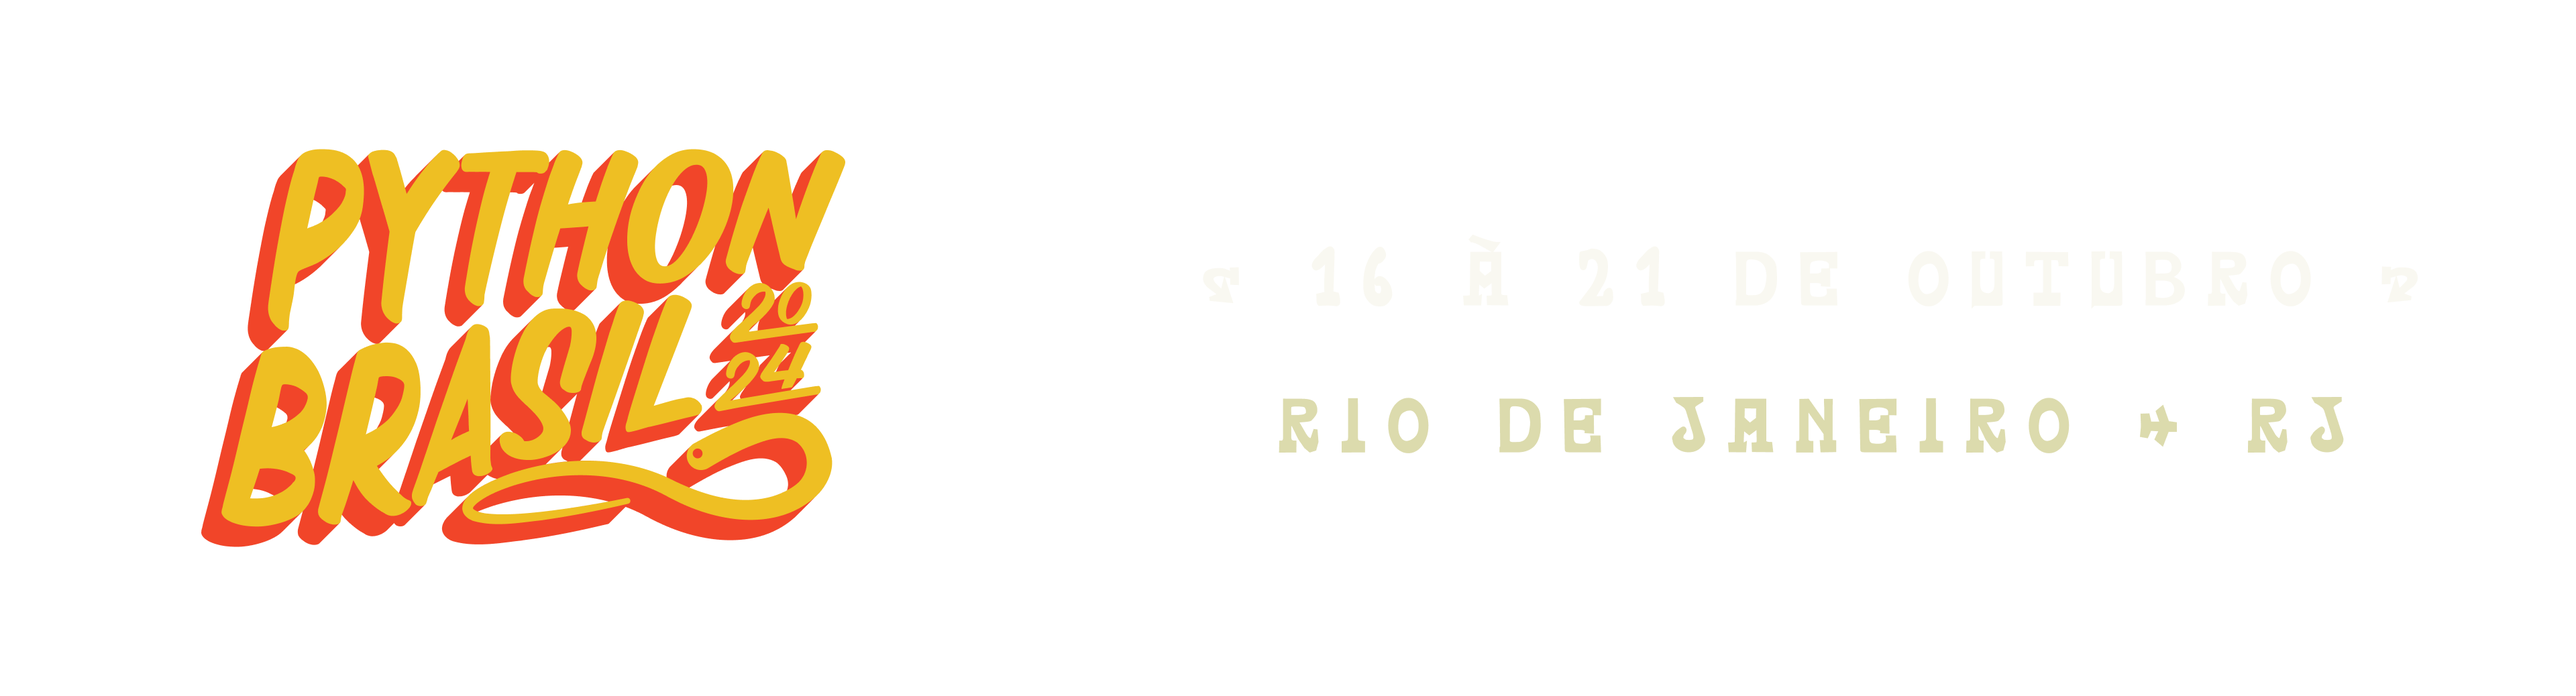
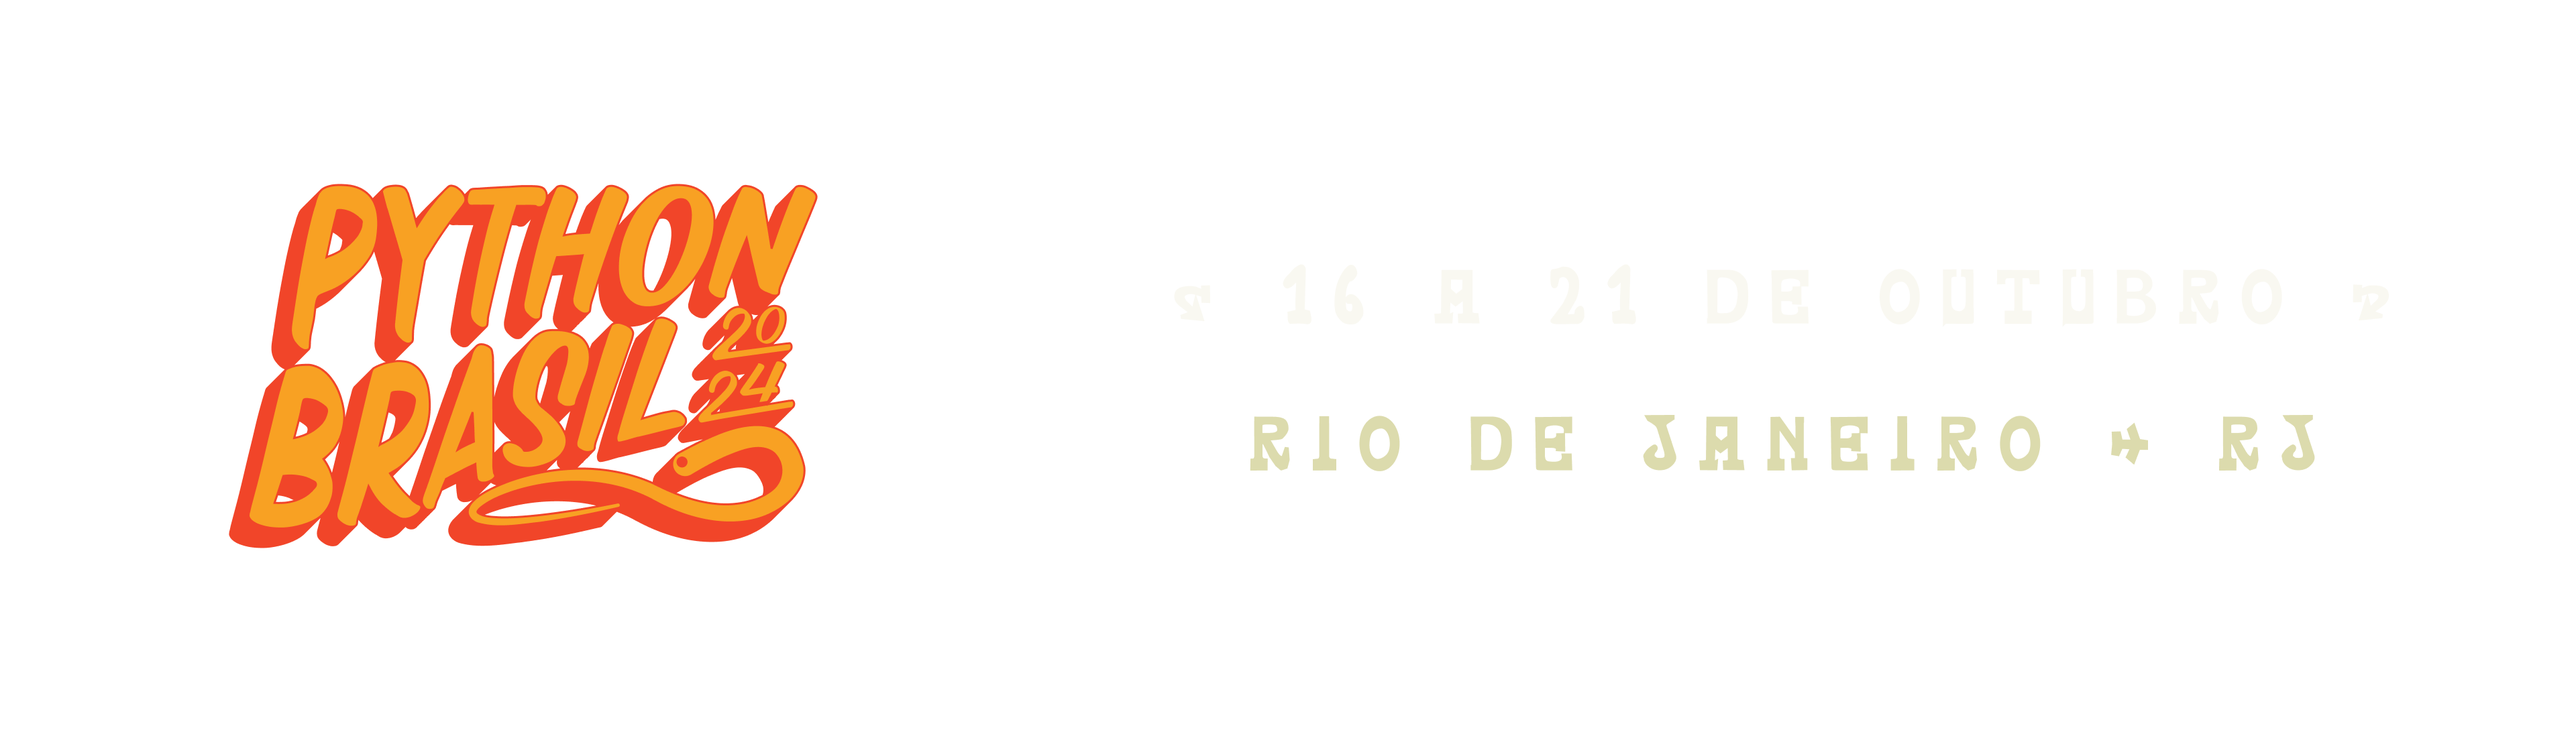
peqnos detalhes design

Changed region(s): [[0.0625, 0.2158, 0.3438, 0.8015], [0.4688, 0.5549, 0.9062, 0.6474]]

diff --git a/theme/templates/index.html b/theme/templates/index.html
@@ -52,9 +52,16 @@
     </div>
   </div>
 </div>
-<div id="lighter-section">
+<hr/>
+<!-- <div>
+  <section id="keynotes">
+    <h1 class="text-center scroll-to"><img class="img-section-title" src=".\theme\images\keynotes.png" alt="Keynotes"/></h1>
+  </section>
+</div> -->
+<hr/>
+<div>
   <section id="local">
-    <h1 class="text-center scroll-to">O evento</h1>
+    <h1 class="text-center scroll-to"><img class="img-section-title" src=".\theme\images\evento.png" alt="O evento"/></h1>
     <div class="container text-center">
       <h2>16 e 17 de outubro - Tutoriais / Oficinas</h2>
       <div class="row pb-5">
@@ -96,28 +103,22 @@
 
   <!--<section id="programacao">
 </section>
-<section id="keynotes">
-</section>
 <section id="parceiros">
 </section>
 <section id="FAQ">
 </section> -->
 </div>
-
+<hr/>
 <section id="patrocinio">
+  <h1 class="text-center scroll-to"><img class="img-section-title" src=".\theme\images\patrocinadores.png" alt="Patrocinadores"/></h1>
   <div class="container text-center">
-    <div id="patrocine">
-      <h1 class="scroll-to">Patrocine o evento!</h1>
-      <p>Para fazer um evento desse porte acontecer, precisamos de patrocinadores. Se você ou sua empresa tem interesse em nos ajudar a fazer esse evento acontecer, entre em contato através do e-mail <a href="mailto:eventos@python.org.br">eventos@python.org.br</a></p>
-      <a href="theme/media_kits/proposta-de-patrocinio-pybr-2024.pdf" target="_blank" class="btn btn-primary">
-        proposta de patrocínio [pt]
-      </a>
-      <a href="theme/media_kits/sponsorship-proposal-pybr-2024.pdf" target="_blank" class="btn btn-primary">
-        sponsorship proposal [en]
-      </a>
-    </div>
-    <div id="patrocinadores">
-      <h1 class="scroll-to">Patrocinadores</h1>
+    <p>Para fazer um evento desse porte acontecer, precisamos de patrocinadores. Se você ou sua empresa tem interesse em nos ajudar a fazer esse evento acontecer, entre em contato através do e-mail <a href="mailto:eventos@python.org.br">eventos@python.org.br</a></p>
+    <a href="theme/media_kits/proposta-de-patrocinio-pybr-2024.pdf" target="_blank" class="btn btn-primary">
+      proposta de patrocínio [pt]
+    </a>
+    <a href="theme/media_kits/sponsorship-proposal-pybr-2024.pdf" target="_blank" class="btn btn-primary">
+      sponsorship proposal [en]
+    </a>
       <!-- <section class="diamante">
         <h2>diamante</h2>
         <img src="theme/images/patrocinador-placeholder.png" alt="sua empresa aqui (diamante)">
@@ -151,7 +152,7 @@
   <div class="container">
     <div class="footer_body">
       <div class="footer_social_logo">
-        <img class="footerImg" src="/theme/images/logo.png" alt="logo do evento python brasil 2024" class="logo">
+        <img class="footerImg" src="/theme/images/logo-ly.png" alt="logo do evento python brasil 2024" class="logo">
         <div class="pt-3">
           <p>
             Python Brasil é uma conferência sem fins lucrativos dirigida por voluntários para promover a linguagem de

diff --git a/theme/static/css/style.css b/theme/static/css/style.css
@@ -150,9 +150,6 @@ h2 {
 #patrocinio a:hover {
     color: white;
 }
-#patrocinio h1 {
-    margin-top: 2em;
-}
 
 #sobre p {
     margin-bottom: 0.2rem;
@@ -376,5 +373,14 @@ body, #hero, #top, #wave {
 #nav a:visited,
 #nav a:active,
 #nav a:hover {
+    color: white;
+}
+
+.img-section-title {
+    max-height: 39px;
+    margin-bottom: 2em;
+}
+
+hr {
     color: white;
 }
